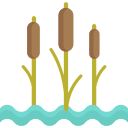
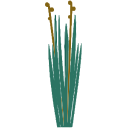
Use right image of Lepironia articulata.

diff --git a/README.rst b/README.rst
@@ -18,7 +18,7 @@ In the future, it will support generating QR code and running on Linux phones.
 Name
 ++++
 
-It is "`Cỏ bàng <co_bang_>`_" (Lepironia articulata), in Vietnamese (I failed to find exact icon for this plant).
+It is "`Cỏ bàng <co_bang_>`_" (Lepironia articulata), in Vietnamese. This plant is used for making handicraft which has pattern like QR code.
 
 Motivation
 ++++++++++
@@ -234,7 +234,7 @@ Credit
 ++++++
 
 - Brought to you by `Nguyễn Hồng Quân <author_>`_.
-- Application logo is from `www.flaticon.com`_, made by `Freepik`_.
+- Application logo is from Shadd Gallegos.
 - One icon is composed from ones made by `Good Ware <good_ware_>`_ (allowed by Flaticon license).
 - Some contributors who proposed nicer UI for this app.
 
@@ -262,6 +262,4 @@ Credit
 .. _Decoder: https://gitlab.gnome.org/World/decoder/
 .. _Megapixels: https://git.sr.ht/~martijnbraam/megapixels
 .. _author: https://quan.hoabinh.vn
-.. _Freepik: https://www.flaticon.com/authors/freepik
-.. _www.flaticon.com: https://www.flaticon.com
 .. _good_ware: https://www.flaticon.com/authors/good-ware
